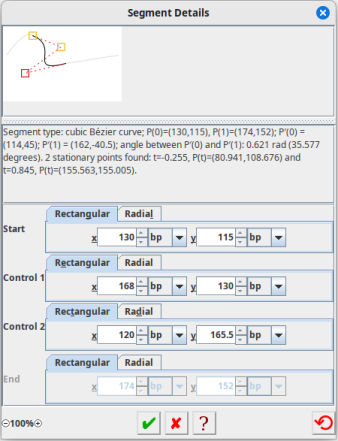
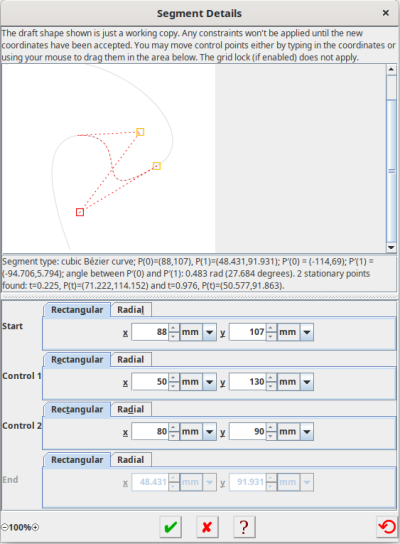
added page centred checkbox to radial coord panel

diff --git a/src/java/flowframtk/dialog/RadialCoordPanel.java b/src/java/flowframtk/dialog/RadialCoordPanel.java
@@ -25,6 +25,8 @@
 package com.dickimawbooks.flowframtk.dialog;
 
 import java.awt.*;
+import java.awt.event.ItemListener;
+import java.awt.event.ItemEvent;
 
 import javax.swing.*;
 import javax.swing.event.ChangeListener;
@@ -50,12 +52,47 @@ public class RadialCoordPanel extends JPanel implements CoordPanel
 
       add(anglePanel);
 
+      pageCentredButton = resources.createAppCheckBox("coordinates", "radial_page", true, null);
+      add(pageCentredButton);
+
+      pageCentredButton.addItemListener(new ItemListener()
+       {
+          @Override
+          public void itemStateChanged(ItemEvent evt)
+          {
+             if (paper != null)
+             {
+                double x = 0.5*paper.getWidth();
+                double y = 0.5*paper.getHeight();
+
+                if (isPageCentred())
+                {
+                   translate(JDRUnit.bp, -x, -y);
+                }
+                else
+                {
+                   translate(JDRUnit.bp, x, y);
+                }
+             }
+          }
+       });
+
       setName(resources.getMessage("grid.radial"));
    }
 
    public void requestCoordFocus()
    {
       radiusPanel.getTextField().requestFocusInWindow();
+   }
+
+   public void setPageCentred(boolean pageCentred)
+   {
+      pageCentredButton.setSelected(pageCentred);
+   }
+
+   public boolean isPageCentred()
+   {
+      return pageCentredButton.isSelected();
    }
 
    public void setCoords(double x, double y, JDRUnit unit, JDRPaper paper)
@@ -65,8 +102,16 @@ public class RadialCoordPanel extends JPanel implements CoordPanel
       JDRRadialPoint p = new JDRRadialPoint(0, 
         new JDRAngle(resources.getMessageSystem(), 0, anglePanel.getUnit()));
 
-      p.setLocation(unit.toBp(x)-0.5*paper.getWidth(),
-                    unit.toBp(y)-0.5*paper.getHeight());
+      double bpX = unit.toBp(x);
+      double bpY = unit.toBp(y);
+
+      if (isPageCentred())
+      {
+         bpX -= 0.5*paper.getWidth();
+         bpY -= 0.5*paper.getHeight();
+      }
+
+      p.setLocation(bpX, bpY);
 
       radiusPanel.setValue(unit.fromBp(p.getRadius()), unit);
 
@@ -75,10 +120,13 @@ public class RadialCoordPanel extends JPanel implements CoordPanel
 
    public void translate(JDRUnit unit, double dx, double dy)
    {
-      JDRLength xlen = getXCoord();
-      JDRLength ylen = getYCoord();
+      if (paper != null)
+      {
+         JDRLength xlen = getXCoord();
+         JDRLength ylen = getYCoord();
 
-      setCoords(xlen.getValue(unit)+dx, ylen.getValue(unit)+dy, unit, paper);
+         setCoords(xlen.getValue(unit)+dx, ylen.getValue(unit)+dy, unit, paper);
+      }
    }
 
    public JDRLength getXCoord()
@@ -87,7 +135,10 @@ public class RadialCoordPanel extends JPanel implements CoordPanel
 
       coord.scale(Math.cos(anglePanel.getValue().toRadians()));
 
-      coord.add(0.5*paper.getWidth(), JDRUnit.bp);
+      if (isPageCentred())
+      {
+         coord.add(0.5*paper.getWidth(), JDRUnit.bp);
+      }
 
       return coord;
    }
@@ -98,7 +149,10 @@ public class RadialCoordPanel extends JPanel implements CoordPanel
 
       coord.scale(Math.sin(anglePanel.getValue().toRadians()));
 
-      coord.add(0.5*paper.getHeight(), JDRUnit.bp);
+      if (isPageCentred())
+      {
+         coord.add(0.5*paper.getHeight(), JDRUnit.bp);
+      }
 
       return coord;
    }
@@ -124,6 +178,7 @@ public class RadialCoordPanel extends JPanel implements CoordPanel
    private NonNegativeLengthPanel radiusPanel;
 
    private AnglePanel anglePanel;
+   private JCheckBox pageCentredButton;
 
    private JDRPaper paper;
 

diff --git a/src/java/flowframtk/dialog/SegmentInfoDialog.java b/src/java/flowframtk/dialog/SegmentInfoDialog.java
@@ -35,8 +35,6 @@ import javax.swing.*;
 import javax.swing.event.*;
 import javax.swing.border.*;
 
-import com.dickimawbooks.texjavahelplib.HelpSetNotInitialisedException;
-
 import com.dickimawbooks.jdr.*;
 import com.dickimawbooks.jdrresources.*;
 import com.dickimawbooks.jdrresources.numfield.*;
@@ -73,19 +71,21 @@ public class SegmentInfoDialog extends JDialog
 
       JDRResources resources = application.getResources();
 
+      JComponent upperPane = new JPanel(new BorderLayout());
+
+      upperPane.add(resources.createAppInfoArea("segmentinfo.info"), "North");
+
       samplePanel = new SegmentSamplePanel(this);
       samplePanelSp = new JScrollPane(samplePanel);
 
+      upperPane.add(samplePanelSp, "Center");
+
       zoomComp = new ZoomComponent(this);
 
-      JComponent lowerPane = new JPanel(new BorderLayout());
-
-      textComp = resources.createAppInfoArea();
-      textComp.setRows(6);
-      lowerPane.add(new JScrollPane(textComp), "North");
+      textComp = resources.createAppInfoArea("segmentinfo.details.curve");
+      upperPane.add(new JScrollPane(textComp), "South");
 
       JComponent detailsComp = Box.createVerticalBox();
-      lowerPane.add(new JScrollPane(detailsComp), "Center");
 
       mainControlComp = Box.createVerticalBox();
       detailsComp.add(mainControlComp);
@@ -96,7 +96,10 @@ public class SegmentInfoDialog extends JDialog
       detailsComp.add(Box.createVerticalGlue());
 
       JSplitPane splitPane = new JSplitPane(
-        JSplitPane.VERTICAL_SPLIT, samplePanelSp, lowerPane);
+        JSplitPane.VERTICAL_SPLIT, 
+        upperPane,
+        new JScrollPane(detailsComp)
+      );
       splitPane.setResizeWeight(0.5);
 
       getContentPane().add(splitPane, "Center");
@@ -144,17 +147,7 @@ public class SegmentInfoDialog extends JDialog
       JPanel p2 = new JPanel();
       bottomPanel.add(p2, "Center");
 
-      p2.add(resources.createOkayButton(getRootPane(), this));
-      p2.add(resources.createCancelButton(this));
-
-      try
-      {
-         p2.add(resources.createHelpDialogButton(this, "mi:segmentinfo"));
-      }
-      catch (HelpSetNotInitialisedException e)
-      {
-         getResources().internalError(null, e);
-      }
+      resources.createOkayCancelHelpButtons(this, p2, this, "mi:segmentinfo");
 
       revertButton = resources.createDialogButton(
         "segmentinfo", "default", this, null);
@@ -975,7 +968,7 @@ class SegmentSamplePanel extends JPanel
    private double xOffset=0.0, yOffset = 0.0;
    private Point anchorPt;
    private SegmentInfoDialog dialog;
-   private static final Dimension MIN_SIZE = new Dimension(100, 100);
+   private static final Dimension MIN_SIZE = new Dimension(300, 300);
 
    public static final Color PATH_PAINT = new Color(220, 220, 220);
    public static final int PADDING=10;

diff --git a/src/doc/en/flowframtk-main.tex b/src/doc/en/flowframtk-main.tex
@@ -7610,11 +7610,31 @@ conversion factor with the \gls{storageunit}.
 \menudef{menu.editpath.info}
 
 The \menu{editpath.info} menu item will option the 
-\inlineglsdef{segmentinfo.title} dialog box shown in
-\figureref{fig:segmentinfo}, which describes the segment type and
+\dialog{segmentinfo} dialog box shown in
+\figureref{fig:segmentinfo}.
+
+\widgetdef{segmentinfo.title}
+
+The \dialog{segmentinfo} dialog describes the segment type and
 provides numeric fields in which to adjust the co-ordinates of the
 segment. Note that the end \gls{controlpt} won't be enabled unless 
-it's the end point of an open path.
+it's the end point of an open path or the end point of a
+\gls{line-of-symmetry}.
+
+You can also adjust the \glspl{controlpt} with the mouse in the
+sample area. This behaves slightly differently to moving
+\glspl{controlpt} on the \gls{canvas}: the \gridlock\ setting is
+ignored, and you can only drag a \gls{controlpt} if you initiate the
+drag from within the \gls{controlpt}['s] bounding box.
+
+\begin{information}
+The \dialog{segmentinfo} dialog allows you to focus in on a specific
+segment without the \glspl{controlpt} from the other segments
+getting in the way. The \gls{shape} shown in draft mode is just a
+guide. Any constraints, such as \gls{line-of-symmetry} or
+\gls{continuity} \glspl{anchor}, won't be applied to the
+\gls{shape} until the segment changes are confirmed.
+\end{information}
 
 Any changes made in this dialog won't take effect until you click on
 the \btn{okay} button. The \btn{cancel} button will discard all the

diff --git a/src/java/flowframtk/dialog/LocationPane.java b/src/java/flowframtk/dialog/LocationPane.java
@@ -123,6 +123,7 @@ public class LocationPane extends JTabbedPane
       {
          setSelectedComponent(radialCoordPanel);
          current = RADIAL;
+         radialCoordPanel.setPageCentred(((JDRRadialGrid)grid).isPageCentred());
       }
 
       getCoordPanel().requestCoordFocus();
